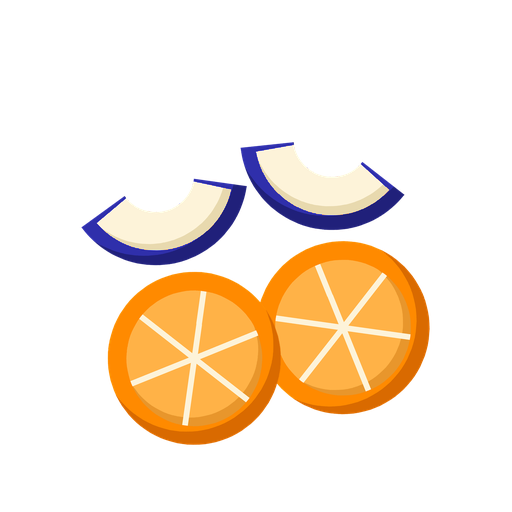
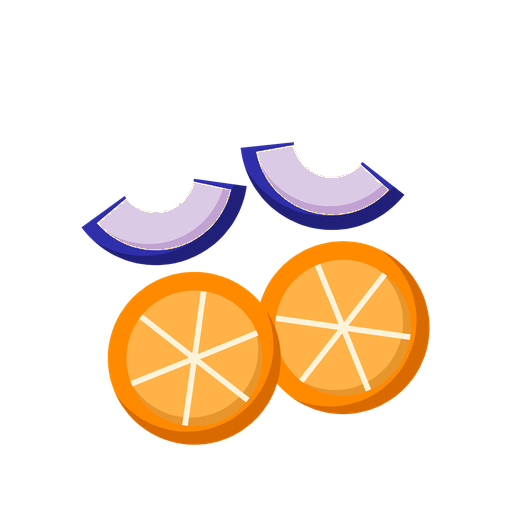
切った断面も紫にし、ゲージを直した
1. 切ったブルーベリーの断面が、リンゴのままクリーム色だった

   断面の色はバナナやオレンジの果肉と同じなので、色だけでは見分けが
   つかない。絵は果物ごとに離れた形で描かれているので、つながった形
   ごとに見て、その中に青い皮が含まれていればブルーベリーの断面として
   塗り替えた。3種類が重なって1つの形になっている絵だけは、皮から
   近いクリーム色だけを塗り替えている。

2. 注文の残り時間のゲージを出すのをやめた

   いまの実験では注文が時間切れになることが無い(そこまで持たない)。
   減っていく帯があっても読み取れる情報が無く、急かされて見えるだけ。

3. 切っている最中のゲージが、半分から始まっていた

   「あと何回か」を割る数が、遊ぶ速さを変える前の回数(8回)のまま
   だった。実際に要るのは4回なので、切り始めた時点で半分しかない。
   実際の回数で割るようにして、端から端まで使うようにした。
   ミキサーのゲージも同じ間違いがあったので直した。

     これまで  0.50 -> 0.38 -> 0.25 -> 0.13
     いま      1.00 -> 0.75 -> 0.50 -> 0.25

Changed region(s): [[0.5, 0.2812, 0.75, 0.4375], [0.1875, 0.3438, 0.4688, 0.5]]

diff --git a/testbed-cooking/gym_cooking/misc/game/game.py b/testbed-cooking/gym_cooking/misc/game/game.py
@@ -3,6 +3,7 @@ from pathlib import Path
 import pygame.draw
 
 import gym_cooking
+from gym_cooking.utils.config import blending_steps, chopping_steps
 from gym_cooking.utils.core import *
 from gym_cooking.misc.game.utils import *
 import numpy as np
@@ -333,7 +334,7 @@ class Game:
             rest = obj.contents[0].state._rest_steps
             self.draw_bar(loc[0] + (0.6 - 0.4) * self.tile_size[0],
                           loc[1] + (0.5 + 0.35) * self.tile_size[1],
-                          0.7 * self.tile_size[0] * rest / BLENDING_NUM_STEPS,
+                          0.7 * self.tile_size[0] * rest / max(1, blending_steps()),
                           0.1 * self.tile_size[1], (60, 140, 220))
 
     def draw_cooking_object(self, obj):
@@ -388,10 +389,13 @@ class Game:
         self.draw(obj.full_name.replace('Chopping', 'Fresh'), self.container_size,
                   self.container_location(obj.location))
         loc = self.scaled_location(obj.location)
+        # ゲージは「あと何回か」を端から端で表す。実際に要る回数は遊ぶ速さで
+        # 決まる(5Hz なら4回)。元は速さを変える前の回数(8回)で割っていたので、
+        # 切り始めた時点でゲージが半分しかなかった。
         self.draw_bar(loc[0] + (0.5 - 0.4) * self.tile_size[0], loc[1] + (0.5 + 0.35) * self.tile_size[1],
                       0.7 *
                       self.tile_size[0] *
-                      obj.contents[0].state._rest_steps / CHOPPING_NUM_STEPS,
+                      obj.contents[0].state._rest_steps / max(1, chopping_steps()),
                       0.1 * self.tile_size[1], (220, 70, 1))
 
     def draw_by_scale_loc(self, path, loc, scale):
@@ -436,16 +440,9 @@ class Game:
             0.75: (124, 178, 66),
             1.0: (0, 138, 122),
         }
-        w = t / MAX_ORDER_LENGTH_SECONDS
-        color = (0, 0, 0)
-        for l, r in zip([0., 0.25, 0.5, 0.75], [0.25, 0.5, 0.75, 1.0]):
-            if l - 1e-3 <= w and w <= r + 1e-3:
-                color = np.array(
-                    colors[l]) + (np.array(colors[r]) - np.array(colors[l])) * (w - l) / (r - l)
-        self.draw_bar((idx + 0.1) * self.tile_size[0], (self.world.height + 1) * self.tile_size[1],
-                      int(self.tile_size[0] * 0.9 * t / MAX_ORDER_LENGTH_SECONDS), self.tile_size[1] // 5, color)
-
-        # Order name display removed for cleaner UI
+        # 注文の残り時間のゲージは出さない。いまの実験では注文が時間切れに
+        # なることが無く(制限時間まで持たない)、減っていく帯があると
+        # 急かされているように見えるだけで、読み取れる情報が無い。
         pass
 
     def draw_soup_hint(self):

diff --git a/testbed-cooking/gym_cooking/envs/overcooked_environment.py b/testbed-cooking/gym_cooking/envs/overcooked_environment.py
@@ -6,6 +6,7 @@ import gym_cooking.recipe_planner.recipe as RECIPY
 
 # Other core modules
 import gym_cooking
+from gym_cooking.utils.config import chopping_steps
 from gym_cooking.utils.interact import INTERACT, interact
 from gym_cooking.utils.world import World
 from gym_cooking.utils.core import *
@@ -648,7 +649,7 @@ class OvercookedEnvironment(gym.Env):
         for cutboard in self.world.get_all_gridsquares('Cutboard'):
             if cutboard.holding is not None and cutboard.holding.full_name.startswith('Chopping'):
                 obj_map['chopping_num_steps'][cutboard.location[0], cutboard.location[1]] = cutboard.holding.contents[
-                    0].state._rest_steps / CHOPPING_NUM_STEPS
+                    0].state._rest_steps / max(1, chopping_steps())
 
         # agents
         agent_map = {
